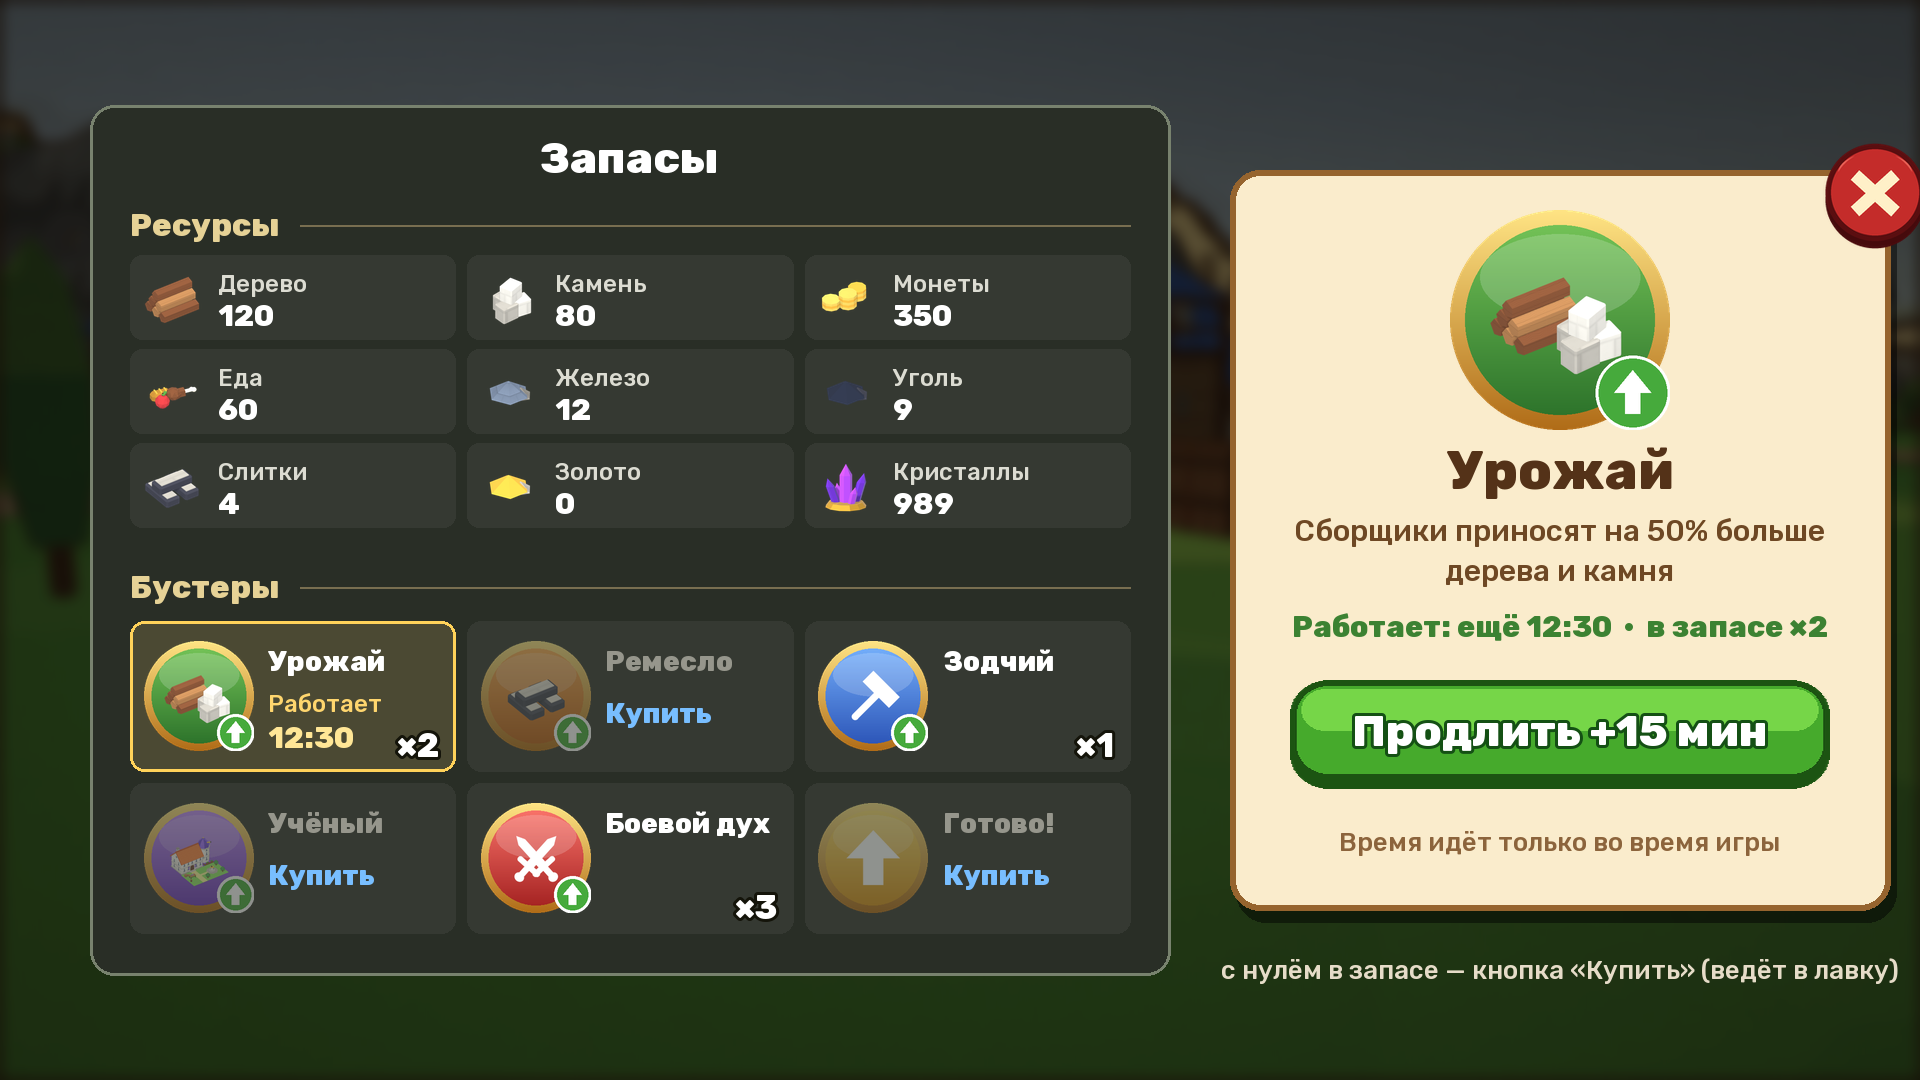
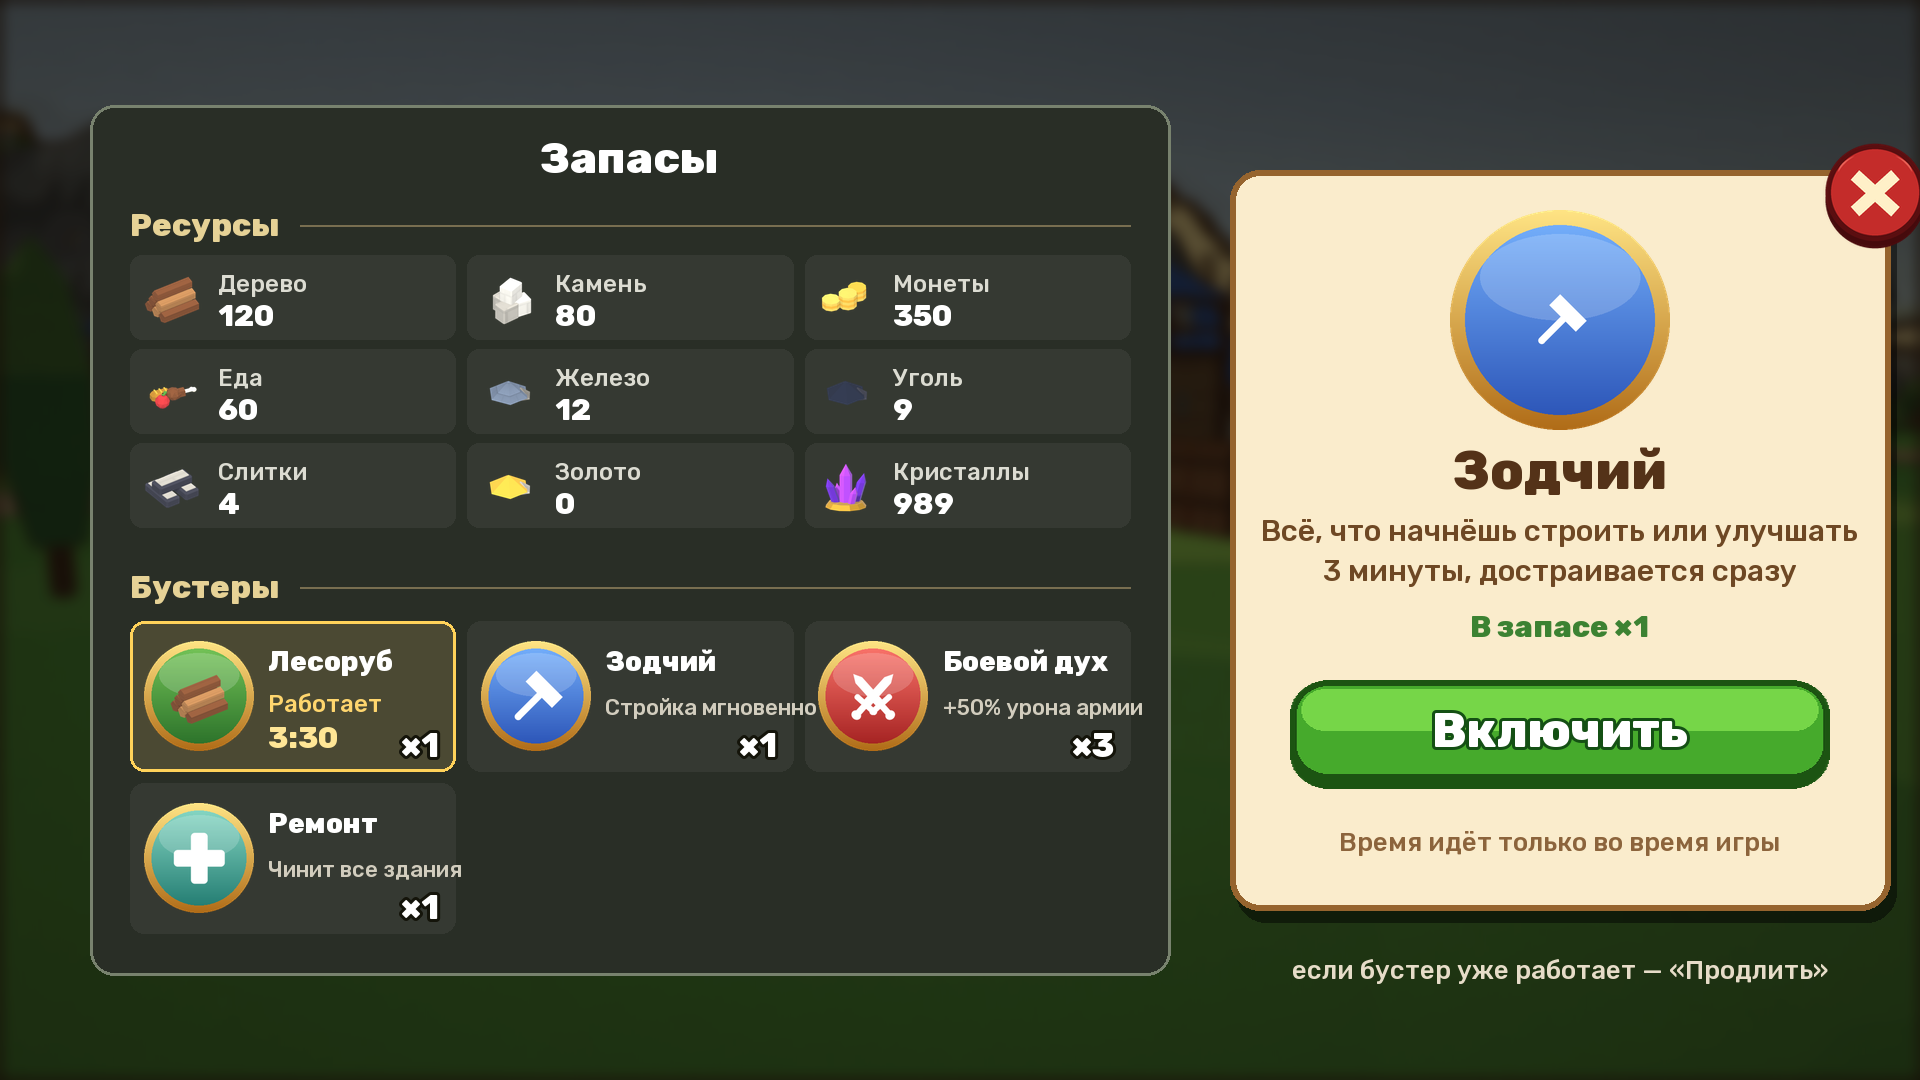
Boosters: «Запасы» concept v2 (all resources, only owned boosters, the activation window) and the round-5 list in the mock-up script

diff --git a/Tools/store/booster_mockup.py b/Tools/store/booster_mockup.py
@@ -25,13 +25,18 @@ INK = (84, 50, 24)
 CREAM = (255, 246, 222)
 
 # name, effect line, minutes, crystals, ad minutes, colours (top, bottom), inner icons
-BOOSTERS = [
-    ('Урожай', '+50% дерева, камня', 15, 20, 5, ((120, 200, 90), (40, 110, 40)), ['Icons/Res_Wood.png', 'Icons/Res_Stone.png']),
-    ('Ремесло', 'Мастерские +50%', 15, 20, 5, ((255, 180, 90), (180, 90, 20)), ['Icons/Res_IronBar.png']),
-    ('Зодчий', 'Стройка ×2 быстрее', 15, 30, 5, ((120, 180, 255), (40, 80, 180)), ['Glyphs/Hammer.png']),
-    ('Учёный', 'Исследования ×2', 15, 30, 5, ((200, 150, 255), (100, 50, 180)), ['Icons/Laboratory.png']),
-    ('Боевой дух', '+25% урона армии', 10, 25, 3, ((255, 120, 110), (160, 30, 30)), ['Glyphs/Swords.png']),
-    ('Готово!', 'Достроить сразу', 0, 40, 0, ((255, 230, 120), (210, 140, 20)), ['Glyphs/Upgrade.png']),
+BOOSTERS = [   # the user's list, round 5 (2026-11-12): no tiers, an ad OR crystals for the same time
+    ('Лесоруб', 'Рубка дерева ×1,5', 5, 20, 5, ((120, 200, 90), (40, 110, 40)), ['Icons/Res_Wood.png']),
+    ('Каменотёс', 'Добыча камня ×1,5', 5, 20, 5, ((190, 190, 180), (100, 100, 96)), ['Icons/Res_Stone.png']),
+    ('Изобилие', 'Еда +1 за цикл', 5, 20, 5, ((255, 200, 110), (200, 110, 30)), ['Icons/Res_Food.png']),
+    ('Казна', 'Налог ×1,2', 10, 20, 10, ((255, 230, 120), (200, 140, 20)), ['Icons/Res_Coins.png']),
+    ('Зодчий', 'Стройка мгновенно', 3, 20, 3, ((120, 180, 255), (40, 80, 180)), ['Glyphs/Hammer.png']),
+    ('Учёный', 'Исследования мгновенно', 3, 20, 3, ((200, 150, 255), (100, 50, 180)), ['Icons/Laboratory.png']),
+    ('Боевой дух', '+50% урона армии', 3, 20, 3, ((255, 120, 110), (160, 30, 30)), ['Glyphs/Swords.png']),
+    ('Стойкость', 'Прочность зданий +25%', 5, 20, 5, ((150, 170, 200), (60, 80, 120)), ['Glyphs/Hud_Shield.png']),
+    ('Вербовка', 'Найм в 2 раза дешевле', 5, 20, 5, ((240, 150, 90), (150, 70, 30)), ['Icons/PortraitSpearman.png']),
+    ('Ремонт', 'Чинит все здания', 0, 20, 1, ((140, 220, 200), (30, 120, 110)), ['Glyphs/Heal.png']),
+    ('Новосёлы', '+20 жителей', 0, 20, 1, ((255, 170, 190), (180, 70, 100)), ['Icons/Res_Population.png']),
 ]
 
 
@@ -211,52 +216,52 @@ def inventory():
     # the gap, then «Бустеры»: one cell per booster, ×N, the running one with its time, an empty one «Купить»
     by = y0 + 150 + 3 * (rh + 10) + 50
     label(by, 'Бустеры')
-    stocks = [2, 0, 1, 0, 3, 0]
-    running = {0: '12:30'}
+    # only the boosters the player HAS (the user, 2026-11-12): stock > 0, or running
+    owned = [(0, 1, '3:30'), (4, 1, None), (6, 3, None), (9, 1, None)]
     bw, bh = (pw - 80 - 24) / 3, 150
-    for i, (name, effect, mins, price, ad, colours, icons) in enumerate(BOOSTERS):
-        cx0 = x0 + 40 + (i % 3) * (bw + 12)
-        cy0 = by + 34 + (i // 3) * (bh + 12)
+    stocks = {i: n for i, n, _ in owned}
+    running = {i: t for i, _, t in owned if t}
+    for k, (i, n, t) in enumerate(owned):
+        name, effect, mins, price, ad, colours, icons = BOOSTERS[i]
+        cx0 = x0 + 40 + (k % 3) * (bw + 12)
+        cy0 = by + 34 + (k // 3) * (bh + 12)
         on = i in running
         m.over(img, lambda g: g.rounded_rectangle((cx0, cy0, cx0 + bw, cy0 + bh), 14,
                                                   fill=(255, 220, 120, 40) if on else (255, 255, 255, 14),
                                                   outline=(255, 210, 90, 255) if on else None, width=3))
         d = ImageDraw.Draw(img)
-        med = medallion(110, colours, icons, arrow=mins > 0)
-        if not stocks[i]:
-            med.putalpha(med.getchannel('A').point(lambda a: int(a * 0.45)))
+        med = medallion(110, colours, icons, arrow=False)
         img.alpha_composite(med, (int(cx0 + 14), int(cy0 + 20)))
         d = ImageDraw.Draw(img)
         m.text(d, (cx0 + 138, cy0 + 40), name, 28, 'white' if stocks[i] else (150, 150, 140), anchor='lm')
         if on:
             m.text(d, (cx0 + 138, cy0 + 82), 'Работает', 24, (255, 214, 110), anchor='lm', path=m.R + 'Assets/_Project/Resources/Fonts/Rubik-Medium.ttf')
             m.text(d, (cx0 + 138, cy0 + 116), running[i], 30, (255, 230, 150), anchor='lm')
-        if stocks[i]:
-            m.text(d, (cx0 + bw - 16, cy0 + bh - 26), f'×{stocks[i]}', 34, 'white', anchor='rm', stroke=3, stroke_fill=(20, 20, 10))
-        else:
-            m.text(d, (cx0 + 138, cy0 + 92), 'Купить', 28, (120, 190, 255), anchor='lm')
+        if not on:
+            m.text(d, (cx0 + 138, cy0 + 86), effect, 22, (210, 205, 190), anchor='lm', path=m.R + 'Assets/_Project/Resources/Fonts/Rubik-Medium.ttf')
+        m.text(d, (cx0 + bw - 16, cy0 + bh - 26), f'×{stocks[i]}', 34, 'white', anchor='rm', stroke=3, stroke_fill=(20, 20, 10))
 
-    # the activation window, opened by tapping «Урожай»
+    # the activation window, opened by tapping «Зодчий»
     ax0, ay0, aw, ah = x0 + pw + 60, 170, 660, 740
     m.over(img, lambda g: g.rounded_rectangle((ax0 + 6, ay0 + 12, ax0 + aw + 6, ay0 + ah + 12), 30, fill=(0, 0, 0, 120)))
     d = ImageDraw.Draw(img)
     d.rounded_rectangle((ax0, ay0, ax0 + aw, ay0 + ah), 30, fill=(250, 236, 204), outline=(150, 100, 46), width=6)
-    name, effect, mins, price, ad, colours, icons = BOOSTERS[0]
-    img.alpha_composite(medallion(220, colours, icons), (ax0 + aw // 2 - 110, ay0 + 40))
+    name, effect, mins, price, ad, colours, icons = BOOSTERS[4]
+    img.alpha_composite(medallion(220, colours, icons, arrow=False), (ax0 + aw // 2 - 110, ay0 + 40))
     d = ImageDraw.Draw(img)
     m.text(d, (ax0 + aw / 2, ay0 + 300), name, 54, INK)
     med = m.R + 'Assets/_Project/Resources/Fonts/Rubik-Medium.ttf'
-    m.text(d, (ax0 + aw / 2, ay0 + 360), 'Сборщики приносят на 50% больше', 30, (110, 72, 36), path=med)
-    m.text(d, (ax0 + aw / 2, ay0 + 400), 'дерева и камня', 30, (110, 72, 36), path=med)
-    m.text(d, (ax0 + aw / 2, ay0 + 456), 'Работает: ещё 12:30  ·  в запасе ×2', 30, (60, 130, 50))
+    m.text(d, (ax0 + aw / 2, ay0 + 360), 'Всё, что начнёшь строить или улучшать', 30, (110, 72, 36), path=med)
+    m.text(d, (ax0 + aw / 2, ay0 + 400), '3 минуты, достраивается сразу', 30, (110, 72, 36), path=med)
+    m.text(d, (ax0 + aw / 2, ay0 + 456), 'В запасе ×1', 30, (60, 130, 50))
     gb = (ax0 + 60, ay0 + 510, ax0 + aw - 60, ay0 + 619)
     m.paste(img, m.SHOP + 'ButtonGreenWide.png', gb, keep=False)
     d = ImageDraw.Draw(img)
-    m.text(d, ((gb[0] + gb[2]) / 2, (gb[1] + gb[3]) / 2 - 4), 'Продлить +15 мин', 44, 'white', stroke=3, stroke_fill=(20, 80, 20))
+    m.text(d, ((gb[0] + gb[2]) / 2, (gb[1] + gb[3]) / 2 - 4), 'Включить', 48, 'white', stroke=3, stroke_fill=(20, 80, 20))
     m.text(d, (ax0 + aw / 2, ay0 + 672), 'Время идёт только во время игры', 26, (140, 100, 60), path=med)
     m.paste(img, m.SHOP + 'Close.png', (ax0 + aw - 70, ay0 - 30, ax0 + aw + 40, ay0 + 80))
     d = ImageDraw.Draw(img)
-    m.text(d, (ax0 + aw / 2, ay0 + ah + 60), 'с нулём в запасе — кнопка «Купить» (ведёт в лавку)', 26, (230, 220, 200), path=med)
+    m.text(d, (ax0 + aw / 2, ay0 + ah + 60), 'если бустер уже работает — «Продлить»', 26, (230, 220, 200), path=med)
     img.convert('RGB').save(OUT + 'Booster_Inventory.png')
 
 

diff --git a/Design/features/monetization.md b/Design/features/monetization.md
@@ -248,7 +248,9 @@ reinstall or a new phone wipes it. Needs a cloud save (e.g. Google Play Games Sa
   their work is in question, so the ore booster waits until the mines are settled. Its intent so far:
   ×1.5 to the ore-digging action of mine workers and citizens, never walking. 11 boosters are built first.
 - **Inventory (the user's idea, 2026-11-12):** «Запасы» lists only the boosters the player HAS (stock > 0
-  or running); maybe resources too -- under discussion.
+  or running); resources: ALL of them, as now (the user: else a player may never learn they exist).
+  Concept v2 `Booster_Inventory.png`: resources, a gap, the owned boosters (running one gold with its
+  time), tapping one opens its window («Включить», or «Продлить» while it runs).
 - **Concepts:** `Tools/store/booster_mockup.py` -> `Design/store/Booster_Shop.png`, `Booster_Inventory.png`,
   `Booster_Hud.png` (icons are placeholder medallions; real ones rendered for approval).
 
